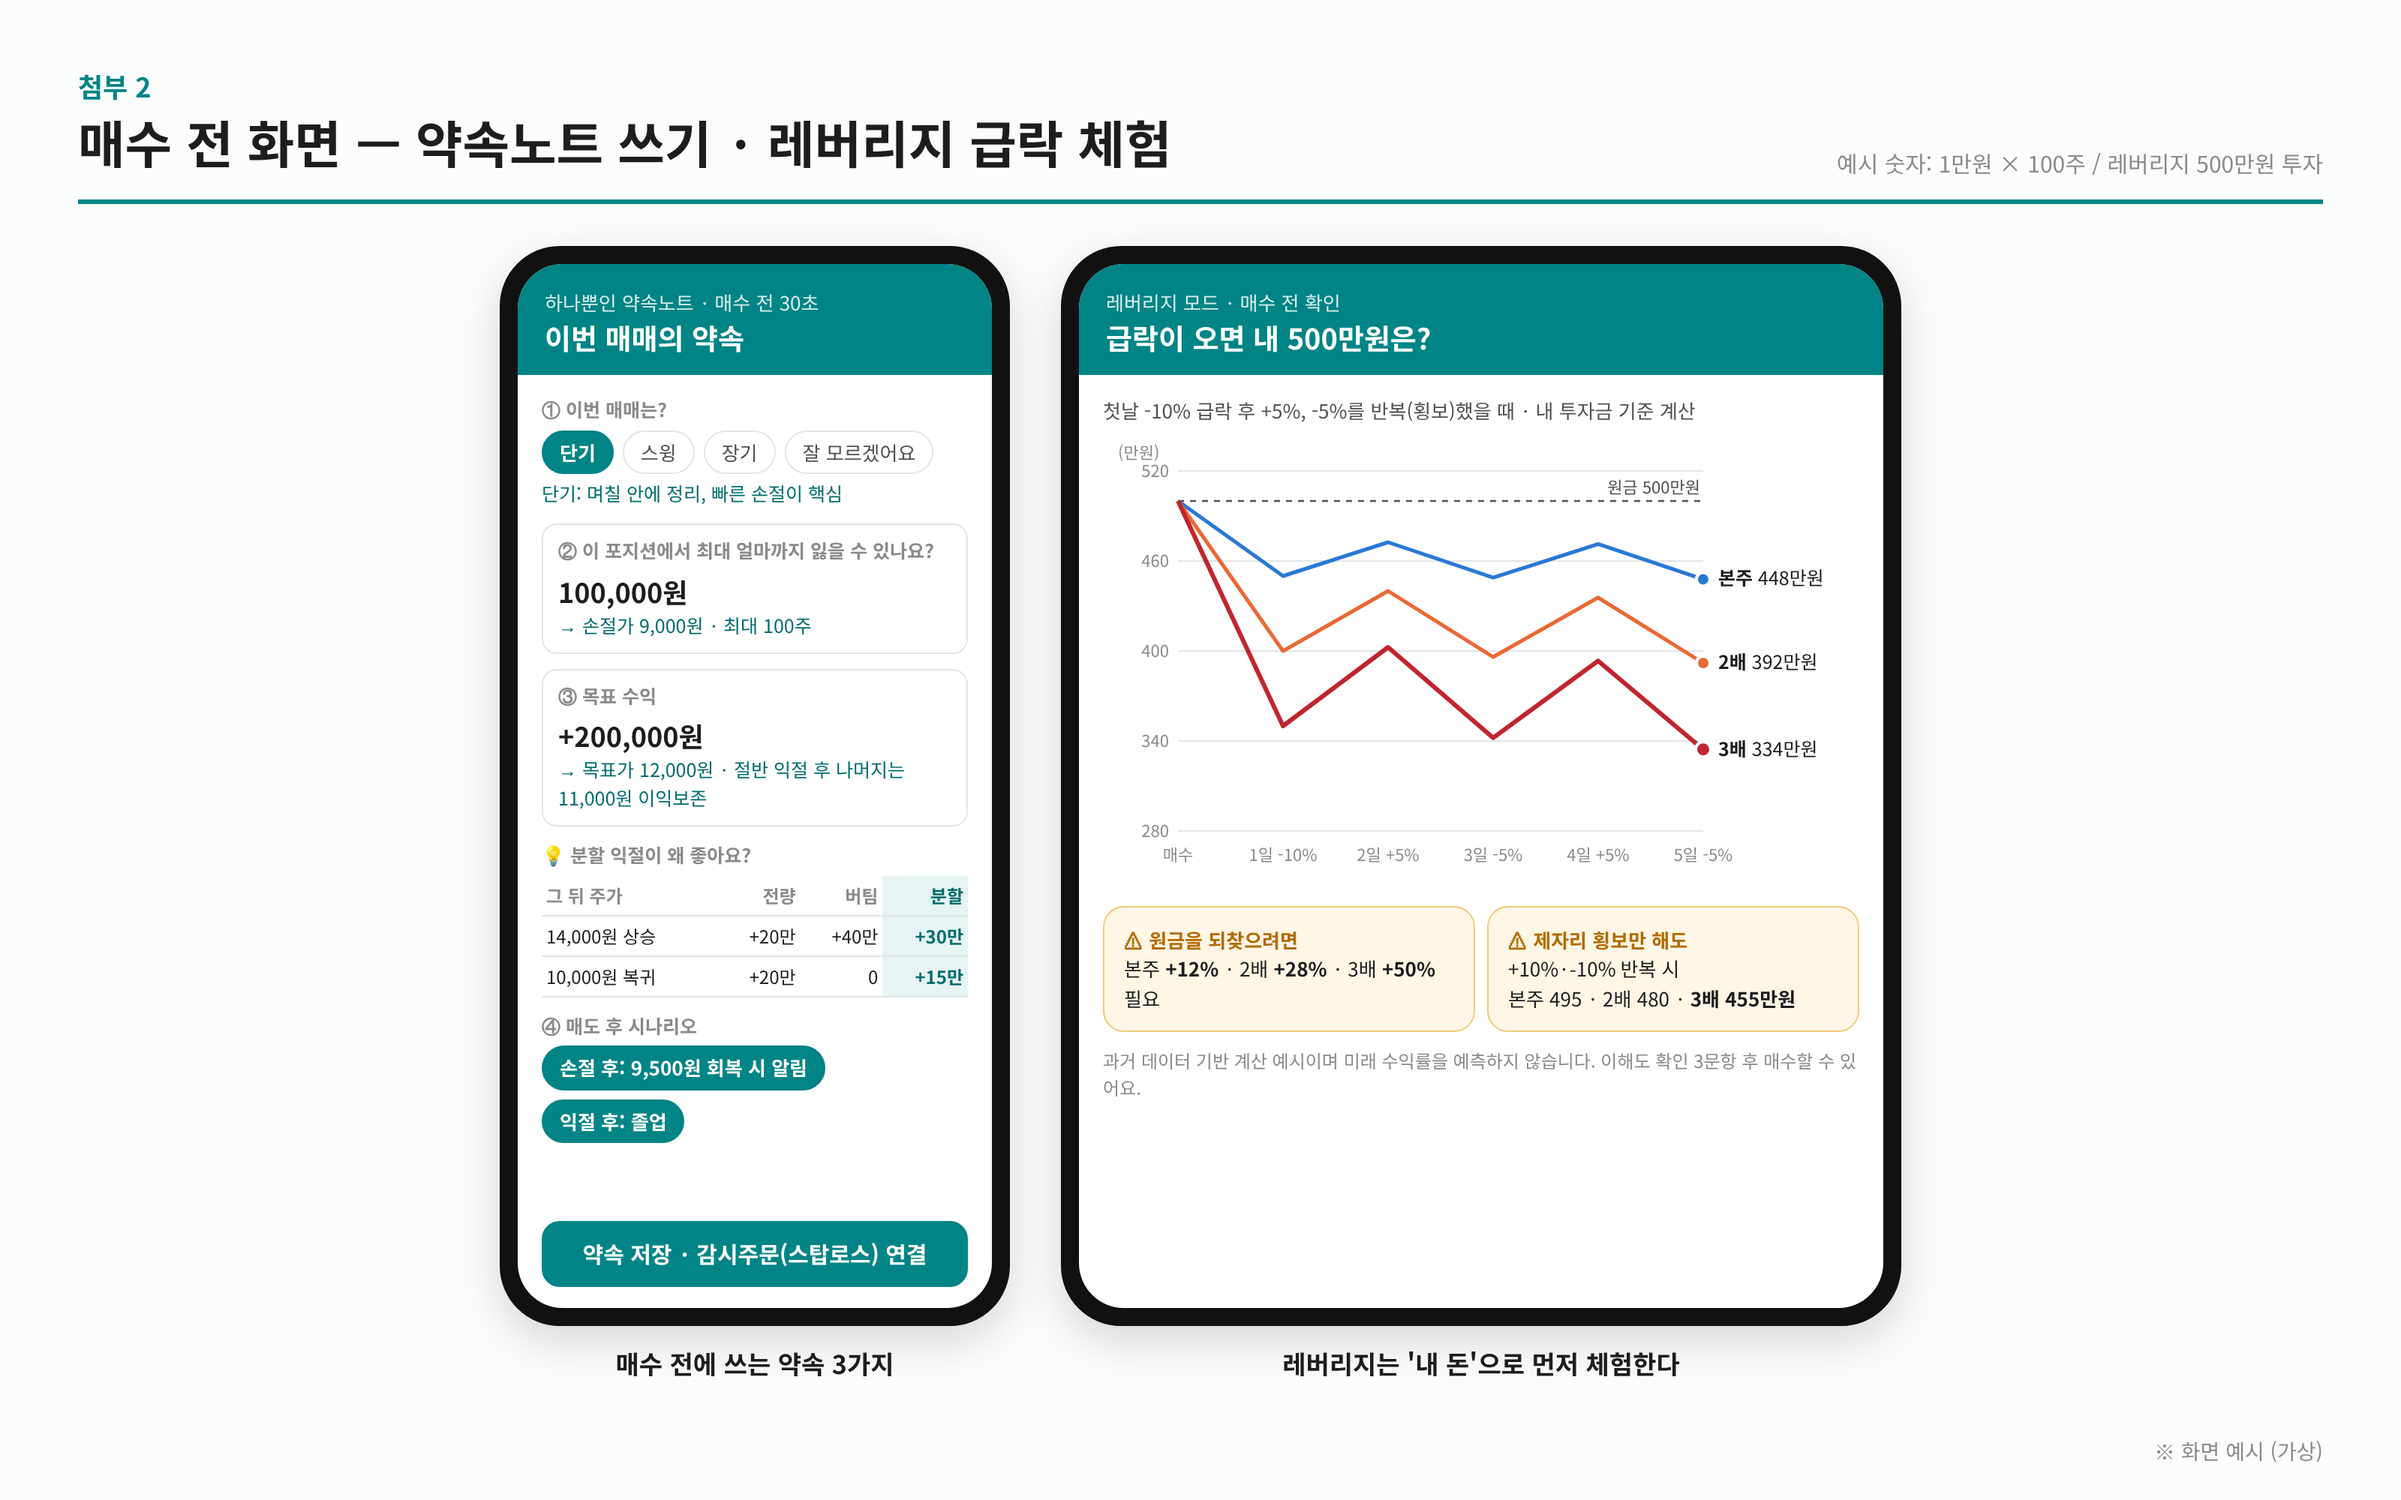
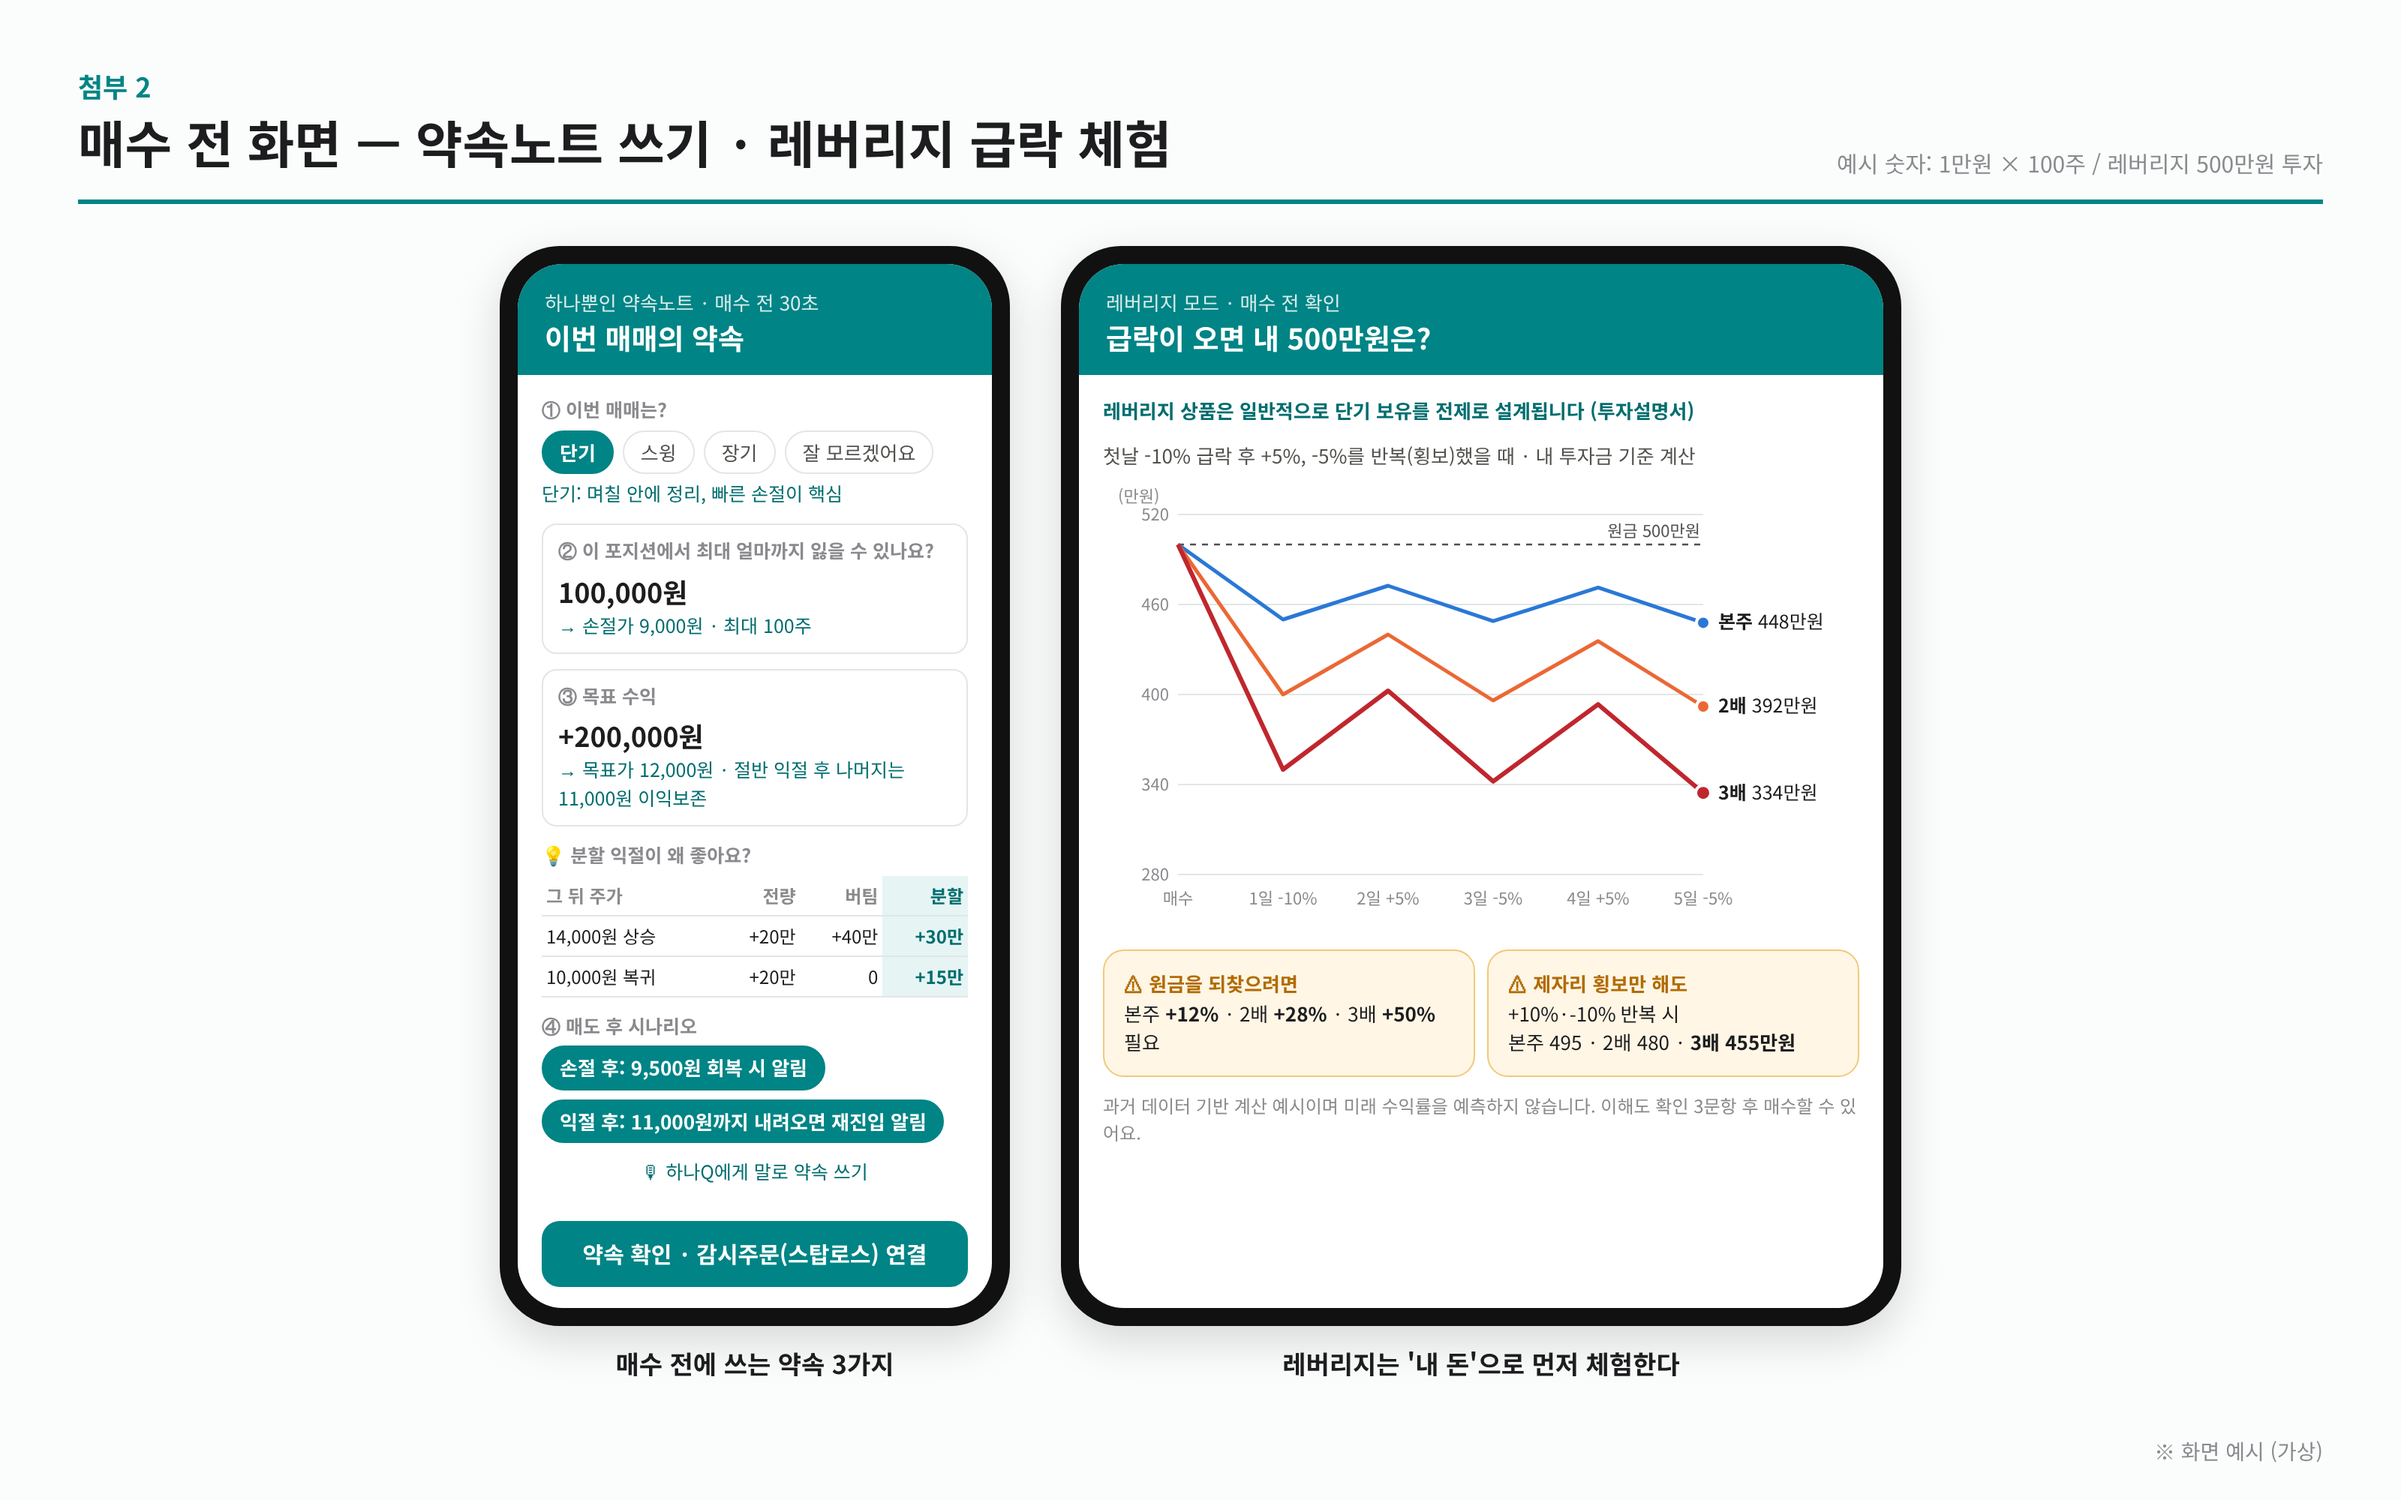
Align attachment images with final text: wording, scenario consistency, leverage notice
Claude-Session: https://claude.ai/code/session_01TKkDqm14RjDDXPetjfDB7T

Changed region(s): [[0.4688, 0.248, 0.75, 0.527], [0.4375, 0.558, 0.7812, 0.744], [0.25, 0.713, 0.4062, 0.806]]

diff --git a/contest/report/첨부이미지.html b/contest/report/첨부이미지.html
@@ -85,23 +85,23 @@ svg text{font-family:"NotoKRL","NotoKR",sans-serif;}
   <div class="banner">예측 말고 대응 — 대응은 매수하기 전에 정한다<span>결정은 손님이, 앱은 손님의 약속을 기억한다</span></div>
   <div class="flow">
     <div class="stage hot"><div class="when">STEP 1 · 매수 전</div><h3>약속노트 쓰기</h3>
-      <ul><li>스타일: 단기 · 스윙 · 장기</li><li>최대 손실 <b>금액</b> → 손절가·수량 계산</li><li>익절 목표 + 분할 익절</li><li>손절·익절 후 시나리오</li><li>AI로 약속 다듬기 (하나Q)</li></ul>
+      <ul><li>스타일: 단기 · 스윙 · 장기</li><li>최대 손실 <b>금액</b> → 손절가·수량 계산</li><li>익절 목표 (분할 익절 안내)</li><li>손절·익절 후 시나리오</li><li>레버리지: 급락 체험 화면</li><li>AI로 약속 다듬기 (하나Q)</li></ul>
       <div class="msg">"최대 10만원까지 잃을 수 있어요 → 손절가 9,000원 · 최대 100주"</div></div>
     <div class="arrow">›</div>
-    <div class="stage"><div class="when">STEP 2 · 매수 직후</div><h3>단타 모드</h3>
+    <div class="stage"><div class="when">STEP 2 · 매수 직후</div><h3>단타 모드 <span style="font-size:15px;color:var(--muted);font-weight:400">(켠 손님만)</span></h3>
       <ul><li>정규장 · 새 매수 체결 직후만</li><li>AI가 차트를 한 줄로 요약</li><li>"어떤 근거로 매수하셨나요?"</li><li>빠른 버튼 + 직접 입력</li></ul>
       <div class="msg">"5분 만에 +8% 오른 상태에서 매수하셨어요"</div></div>
     <div class="arrow">›</div>
     <div class="stage"><div class="when">STEP 3 · 보유 중</div><h3>감정의 순간 가드</h3>
-      <ul><li>물타기 가드 (공포)</li><li>추격매수 가드 (탐욕)</li><li>"더 오를까" → 지킬 수익부터</li><li>스타일 이탈 감지</li><li>레버리지 급락 체험</li></ul>
-      <div class="msg">"처음 계획은 -10%면 정리, 지금 -15%예요"</div></div>
+      <ul><li>물타기 가드 (공포)</li><li>추격매수 가드 (탐욕)</li><li>"더 오를까" → 지킬 수익부터</li><li>스타일 이탈 감지</li></ul>
+      <div class="msg">"처음 약속은 -10%면 정리, 지금 -15%예요"</div></div>
     <div class="arrow">›</div>
     <div class="stage hot"><div class="when">STEP 4 · 매도 후</div><h3>계획의 실행</h3>
       <ul><li>체결 후에만 짧게 알림</li><li>수익이 아니라 원칙 준수를 칭찬</li><li>미리 정한 다음 시나리오 안내</li></ul>
       <div class="msg">"정하신 12,000원에서 절반 익절 완료. 원칙을 잘 지키셨어요"</div></div>
     <div class="arrow">›</div>
     <div class="stage"><div class="when">STEP 5 · 월간</div><h3>복기 리포트</h3>
-      <ul><li>계획대로 vs 마음 바꾼 매매</li><li>근거별 결과 (단타 모드)</li><li>나의 반복 실수 패턴</li></ul>
+      <ul><li>약속대로 vs 마음 바꾼 매매</li><li>근거별 결과 (단타 모드)</li><li>나의 반복 실수 패턴</li></ul>
       <div class="msg">"'급등 따라가기' 매수는 10번 중 2번만 수익"</div></div>
   </div>
   <div class="rules">
@@ -136,13 +136,15 @@ svg text{font-family:"NotoKRL","NotoKR",sans-serif;}
           <table class="mini"><tr><th>그 뒤 주가</th><th>전량</th><th>버팀</th><th class="me">분할</th></tr>
           <tr><td>14,000원 상승</td><td>+20만</td><td>+40만</td><td class="me">+30만</td></tr>
           <tr><td>10,000원 복귀</td><td>+20만</td><td>0</td><td class="me">+15만</td></tr></table></div>
-        <div><div class="lbl">④ 매도 후 시나리오</div><div class="chips"><span class="chip on">손절 후: 9,500원 회복 시 알림</span><span class="chip on">익절 후: 졸업</span></div></div>
-        <div class="btn">약속 저장 · 감시주문(스탑로스) 연결</div>
+        <div><div class="lbl">④ 매도 후 시나리오</div><div class="chips"><span class="chip on">손절 후: 9,500원 회복 시 알림</span><span class="chip on">익절 후: 11,000원까지 내려오면 재진입 알림</span></div></div>
+        <div style="font-size:12.5px;color:var(--teal-d);text-align:center">🎙 하나Q에게 말로 약속 쓰기</div>
+        <div class="btn">약속 확인 · 감시주문(스탑로스) 연결</div>
       </div></div></div><div class="cap">매수 전에 쓰는 약속 3가지</div></div>
 
     <div class="capw"><div class="phone" style="width:560px"><div class="screen">
       <div class="bar"><div class="t">레버리지 모드 · 매수 전 확인</div><div class="h">급락이 오면 내 500만원은?</div></div>
       <div class="body">
+        <div style="font-size:13px;color:var(--teal-d);font-weight:700">레버리지 상품은 일반적으로 단기 보유를 전제로 설계됩니다 (투자설명서)</div>
         <div style="font-size:13px;color:var(--ink2)">첫날 -10% 급락 후 +5%, -5%를 반복(횡보)했을 때 · 내 투자금 기준 계산</div>
         <svg width="510" height="300" viewBox="0 0 510 300" role="img" aria-label="본주, 2배, 3배 레버리지의 평가금액 변화">
           <!-- axes: x 0..5 days -> 50..400 ; y 300..520만원 -> 260..20 -->
@@ -186,14 +188,15 @@ svg text{font-family:"NotoKRL","NotoKR",sans-serif;}
     <div class="capw"><div class="phone"><div class="screen">
       <div class="bar"><div class="t">보유 중 · 추가 매수 주문</div><div class="h">물타기 전에 확인해요</div></div>
       <div class="body">
-        <div class="card warn"><div class="ic">⚠ 계획에 없던 추가 매수예요</div><div class="big">처음 계획: 단기, -10%면 정리<br>지금: -15%</div></div>
+        <div class="card warn"><div class="ic">⚠ 약속에 없던 추가 매수예요</div><div class="big">처음 약속: 단기, -10%면 정리<br>지금: -15%</div></div>
         <div class="row"><span>평균 단가</span><b>10,000 → 9,250원</b></div>
         <div class="row"><span>이 종목 비중</span><b>30% → 55%</b></div>
-        <div class="row"><span>여기서 15% 더 내리면</span><b>-28만 → -41만원</b></div>
+        <div class="row"><span>15% 더 내리면</span><b style="white-space:nowrap">-28만 → -41만원</b></div>
+        <div style="font-size:11.5px;color:var(--muted);text-align:right;margin-top:-6px">물타기 안 할 때 → 할 때</div>
         <div class="lbl" style="margin-top:4px">원금 회복에 필요한 상승률</div>
         <div class="row"><span>-20% 손실</span><b>+25%</b></div>
         <div class="row"><span>-50% 손실</span><b>+100%</b></div>
-        <div class="btns"><div class="btn2">플랜 바꾸고 진행</div><div class="btn2">그대로 진행</div><div class="btn2">취소</div><div class="btn2" style="border-color:var(--teal);color:var(--teal-d);font-weight:700">내일 다시 생각하기</div></div>
+        <div class="btns"><div class="btn2">약속 바꾸고 진행</div><div class="btn2">그대로 진행</div><div class="btn2">취소</div><div class="btn2" style="border-color:var(--teal);color:var(--teal-d);font-weight:700">내일 다시 생각하기</div></div>
       </div></div></div><div class="cap">물타기 가드 (공포)</div></div>
 
     <div class="capw"><div class="phone"><div class="screen">
@@ -201,8 +204,8 @@ svg text{font-family:"NotoKRL","NotoKR",sans-serif;}
       <div class="body">
         <div class="card warn"><div class="ic">⚠ 판 가격보다 비싸게 다시 사요</div><div class="big">12,000원에 익절<br>지금 13,800원 (+15%)</div></div>
         <div style="font-size:13.5px">처음 정한 익절 후 시나리오는<br><b>'11,000원까지 내려오면 재진입'</b>이었어요.</div>
-        <div class="card" style="background:var(--teal-l)"><div class="ic" style="color:var(--teal-d)">진행하려면 새 플랜이 필요해요</div><div style="font-size:13px">스타일 · 최대 손실 금액을 다시 정하면<br>앞서 번 +20만원을 지키는 선이 보여요.</div></div>
-        <div class="btns"><div class="btn2" style="border-color:var(--teal);color:var(--teal-d);font-weight:700">새 플랜 작성</div><div class="btn2">취소</div></div>
+        <div class="card" style="background:var(--teal-l)"><div class="ic" style="color:var(--teal-d)">진행하려면 새 약속이 필요해요</div><div style="font-size:13px">스타일 · 최대 손실 금액을 다시 정하면<br>앞서 번 수익을 지키는 선이 보여요.</div></div>
+        <div class="btns"><div class="btn2" style="border-color:var(--teal);color:var(--teal-d);font-weight:700">새 약속 쓰기</div><div class="btn2">취소</div></div>
       </div></div></div><div class="cap">추격매수 가드 (탐욕)</div></div>
 
     <div class="capw"><div class="phone"><div class="screen">
